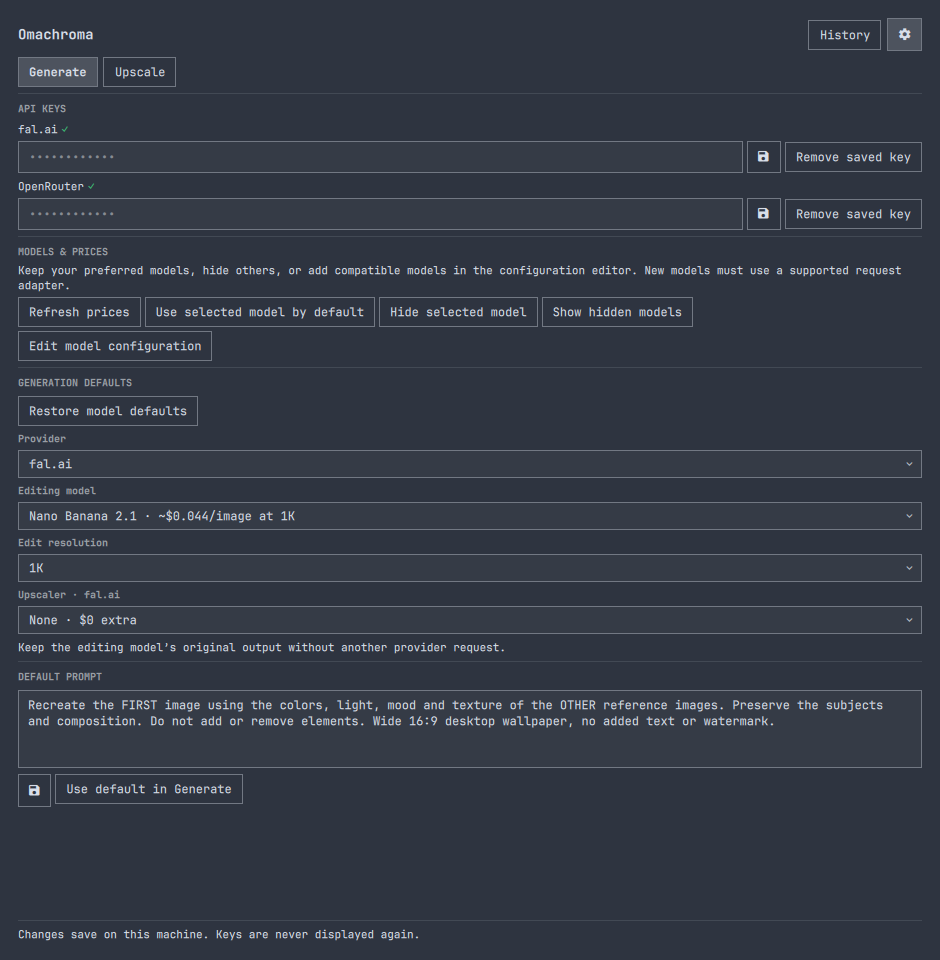
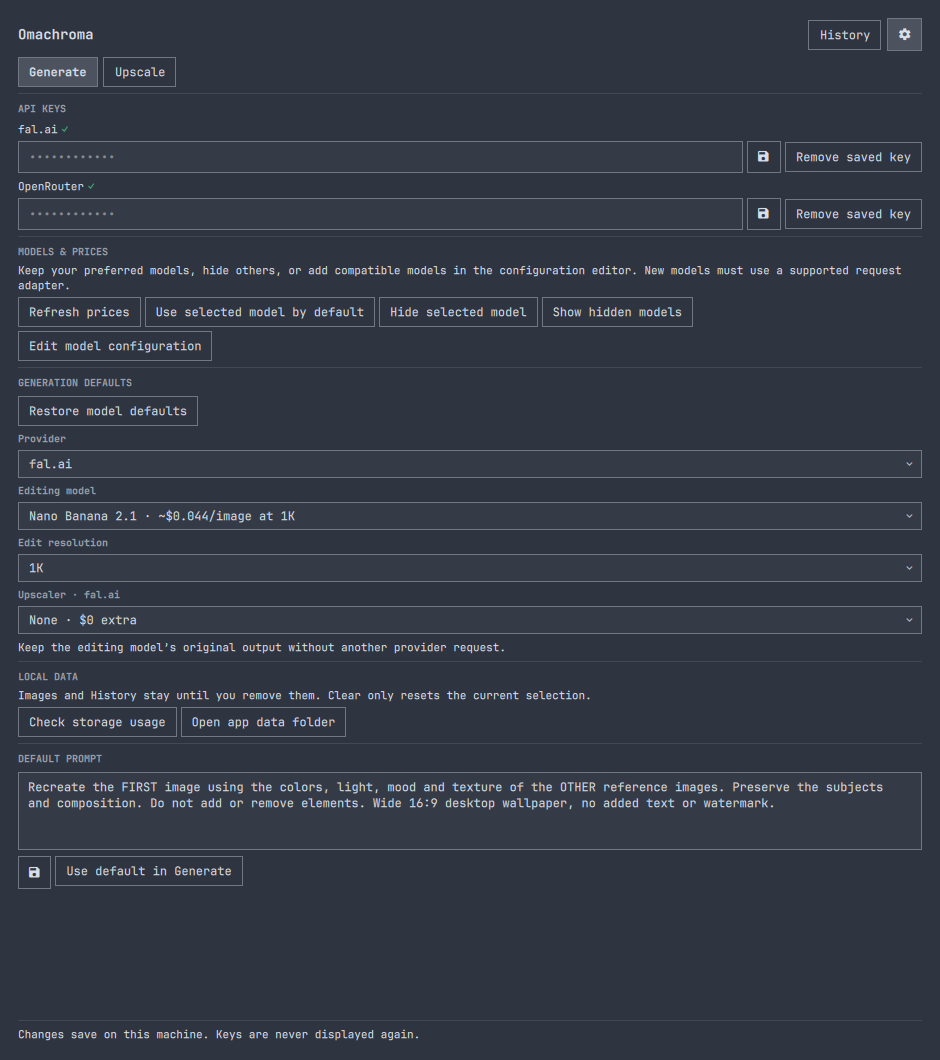
Polish pricing refresh, tiny rates and local data management

diff --git a/qml/controllers/BackendState.qml b/qml/controllers/BackendState.qml
@@ -19,6 +19,8 @@ Item {
   property var environmentKeys: ({})
   property string catalogWarning: ""
   property string dataPath: ""
+  property var storageInfo: null
+  readonly property bool dataBusy: dataProc.running
   property var keys: ({fal: false, openrouter: false})
   readonly property var effectiveConfig: Object.assign({}, config, {upscaler: keys.fal ? config.upscaler : "none"})
   property var lastJob: null
@@ -43,7 +45,7 @@ Item {
       modelConfig = data.modelConfig; providerDefaults = data.providerDefaults
       environmentKeys = data.environmentKeys; catalogWarning = data.catalogWarning || ""
       dataPath = data.dataPath || ""
-      if (data.refresh) message = data.refresh.updated + " metadata entries refreshed." + (data.refresh.warnings.length ? " " + data.refresh.warnings.join(" ") : "")
+      if (data.refresh) message = data.refresh.updated + " rates refreshed; " + (data.refresh.availabilityUpdated || 0) + " availability entries checked." + (data.refresh.warnings.length ? " " + data.refresh.warnings.join(" ") : "")
     } catch (e) { error = "Could not read Settings. Check the local config file." }
   }
   function load() {
@@ -97,6 +99,26 @@ Item {
     saveProc.command = ["python3", backend, "--refresh-prices"]
     message = "Refreshing provider metadata. Images and prompts are not sent."
     saveProc.running = true
+  }
+  function dataAction(open) {
+    if (dataProc.running || busy) return
+    dataProc.opening = open
+    dataProc.command = ["python3", backend, open ? "--open-data-folder" : "--storage-info"]
+    dataProc.running = true
+  }
+  Process {
+    id: dataProc
+    property bool opening: false
+    stdout: StdioCollector {
+      waitForEnd: true
+      onStreamFinished: {
+        if (!dataProc.opening && text.trim()) {
+          try { root.storageInfo = JSON.parse(text) }
+          catch (e) { root.error = "Could not read storage usage." }
+        }
+      }
+    }
+    onExited: { if (exitCode !== 0) root.error = "Could not inspect or open the app data folder." }
   }
   Process {
     id: loadProc

diff --git a/qml/views/DataSettings.qml b/qml/views/DataSettings.qml
@@ -1,0 +1,34 @@
+import QtQuick
+import qs.Commons
+import qs.Ui
+
+Column {
+  id: root
+  required property var store
+  spacing: Style.spacing.sm
+  PanelSectionHeader { text: "LOCAL DATA" }
+  Text {
+    width: parent.width; wrapMode: Text.WordWrap; textFormat: Text.PlainText
+    text: "Images and History stay until you remove them. Clear only resets the current selection."
+    color: Color.muted; font.family: Style.font.family; font.pixelSize: Style.font.bodySmall
+  }
+  Flow {
+    width: parent.width; spacing: Style.spacing.sm
+    Button {
+      text: "Check storage usage"; focusable: true; bordered: true
+      enabled: !root.store.busy && !root.store.dataBusy
+      onClicked: root.store.dataAction(false)
+    }
+    Button {
+      text: "Open app data folder"; focusable: true; bordered: true
+      enabled: !root.store.busy && !root.store.dataBusy
+      onClicked: root.store.dataAction(true)
+    }
+  }
+  Text {
+    visible: !!root.store.storageInfo
+    width: parent.width; wrapMode: Text.WordWrap; textFormat: Text.PlainText
+    text: root.store.storageInfo ? (root.store.storageInfo.complete ? "" : "At least ") + (root.store.storageInfo.bytes / 1048576).toFixed(1) + " MiB across " + root.store.storageInfo.files + " files. Removing files through the file manager does not remove copies already saved to themes." : ""
+    color: Color.muted; font.family: Style.font.family; font.pixelSize: Style.font.bodySmall
+  }
+}

diff --git a/qml/logic/Omachroma.js b/qml/logic/Omachroma.js
@@ -1,6 +1,8 @@
 // Provider rates are dated snapshots. Output size, quality and input images can change the bill.
 function dollars(value) {
-  return "$" + Number(value).toFixed(4).replace(/0+$/, "").replace(/\.$/, "")
+  var amount = Number(value)
+  if (amount > 0 && amount < 0.0001) return "$" + amount.toPrecision(4)
+  return "$" + amount.toFixed(4).replace(/0+$/, "").replace(/\.$/, "")
 }
 
 function reportedCost(report) {
@@ -19,9 +21,10 @@ function reportedCost(report) {
 function providerRate(rates) {
   var groups = {}
   ;(rates || []).forEach(function(rate) {
-    var name = rate.billable + "/" + rate.unit + (rate.conditional ? " (conditional)" : "")
+    var tokens = rate.unit === "token" || rate.unit === "tokens"
+    var name = rate.billable + "/" + (tokens ? "M tokens" : rate.unit) + (rate.conditional ? " (conditional)" : "")
     if (!groups[name]) groups[name] = []
-    groups[name].push(Number(rate.usd))
+    groups[name].push(Number(rate.usd) * (tokens ? 1000000 : 1))
   })
   return Object.keys(groups).map(function(name) {
     var values = groups[name], low = Math.min.apply(null, values), high = Math.max.apply(null, values)

diff --git a/qml/views/SettingsView.qml b/qml/views/SettingsView.qml
@@ -117,6 +117,8 @@ Column {
     onChanged: { root.store.update("creativity", parseInt(value)) }
   }
   PanelSeparator { width: parent.width }
+  DataSettings { width: parent.width; store: root.store }
+  PanelSeparator { width: parent.width }
   PanelSectionHeader { text: "DEFAULT PROMPT" }
   PromptInput {
     id: prompt

diff --git a/backend/catalog.py b/backend/catalog.py
@@ -135,16 +135,19 @@ def refresh():
     warnings = []
     stamp = datetime.now(timezone.utc).isoformat(timespec='seconds')
     started = time.monotonic()
-    updated = 0
+    updated = availability_updated = 0
+    changed = False
     def fetch(url, key, provider):
         remaining = 75 - (time.monotonic() - started)
         if remaining <= 0:
             raise ValueError('Metadata refresh reached its 75-second deadline.')
         return metadata_request(url, key, provider, min(8, remaining))
-    def remember(group, ident, data):
-        nonlocal updated
+    def remember(group, ident, data, rate=True):
+        nonlocal updated, availability_updated, changed
         result.setdefault(group, {})[ident] = {'checkedAt': stamp, **data}
-        updated += 1
+        changed = True
+        updated += int(rate)
+        availability_updated += int(group == 'openrouter')
     if keys.get('FAL_KEY'):
         try:
             editing = models('fal', include_hidden=True)
@@ -192,7 +195,11 @@ def refresh():
                     if not complete:
                         continue
                     old = previous.get('openrouter', {}).get(ident, {})
-                    remember('openrouter', ident, {**old, 'available': False, 'availabilityChecked': stamp})
+                    remember('openrouter', ident, {**old, 'available': False, 'availabilityChecked': stamp}, rate=False)
+                    continue
+                if ident in manual['openrouter']:
+                    old = previous.get('openrouter', {}).get(ident, {})
+                    remember('openrouter', ident, {**old, 'available': True, 'availabilityChecked': stamp}, rate=False)
                     continue
                 try:
                     info = fetch('https://openrouter.ai/api/v1/images/models/' + quote(ident, safe='/') + '/endpoints', keys['OPENROUTER_API_KEY'], 'openrouter')
@@ -209,6 +216,6 @@ def refresh():
             warnings.append('OpenRouter catalog could not refresh. Previous metadata remains active.')
     else:
         warnings.append('OpenRouter key missing; its rates were not refreshed.')
-    if updated:
+    if changed:
         storage.atomic_write(storage.DATA / 'catalog-cache.json', json.dumps(result, indent=2) + '\n')
-    return {'updated': updated, 'warnings': warnings}
+    return {'updated': updated, 'availabilityUpdated': availability_updated, 'warnings': warnings}

diff --git a/tests/test_catalog.py b/tests/test_catalog.py
@@ -9,7 +9,7 @@ from unittest.mock import patch
 
 PLUGIN = Path(__file__).resolve().parents[1]
 sys.path.insert(0, str(PLUGIN))
-from backend import catalog, model_config, providers, storage, upscalers
+from backend import diagnostics, catalog, model_config, providers, storage, upscalers
 
 
 class CatalogTests(unittest.TestCase):
@@ -164,6 +164,29 @@ class CatalogTests(unittest.TestCase):
     def test_huge_numeric_price_rejected(self):
         value = self.custom(); value['models']['fal'][0]['price']['image'] = 10 ** 400
         with self.assertRaises(ValueError): catalog.save(value)
+
+    def test_openrouter_manual_prices_refresh_availability_only(self):
+        value = copy.deepcopy(model_config.EMPTY)
+        ident = catalog.MODELS['openrouter'][0]['value']
+        value['models']['openrouter'] = [{'value':ident,'label':'Manual model','adapter':'openrouter','resolutions':['1K'],'price':{'image':.99}}]
+        catalog.save(value)
+        with patch.object(storage, 'credentials', return_value={'OPENROUTER_API_KEY':'fixture'}), patch.object(catalog, 'metadata_request', return_value={'data':[{'id':ident}]}) as request:
+            result = catalog.refresh()
+        self.assertEqual(request.call_count,1)
+        self.assertEqual(result['updated'],0)
+        self.assertEqual(result['availabilityUpdated'],len(catalog.MODELS['openrouter']))
+        self.assertNotIn('rates',catalog.cache()[0]['openrouter'][ident])
+        self.assertEqual(storage.model_spec('openrouter',ident)['price'],{'image':.99})
+
+    def test_storage_usage_does_not_follow_external_symlinks(self):
+        (self.data / 'one').write_bytes(b'abc')
+        with tempfile.TemporaryDirectory() as external:
+            target = Path(external); (target / 'secret').write_bytes(b'x' * 1000)
+            (self.data / 'linked-folder').symlink_to(target, target_is_directory=True)
+            (self.data / 'linked-file').symlink_to(target / 'secret')
+            info = diagnostics.storage_usage()
+        self.assertEqual(info['bytes'], 3)
+        self.assertTrue(info['complete'])
 
     def test_launcher_cleanup_protects_user_entry(self):
         with patch.dict('os.environ', {'XDG_DATA_HOME': str(self.data)}):

diff --git a/backend/diagnostics.py b/backend/diagnostics.py
@@ -2,6 +2,7 @@
 import shutil
 import subprocess
 import sys
+from pathlib import Path
 
 
 def check():
@@ -18,3 +19,47 @@ def check():
     return {'pythonSupported': sys.version_info >= (3, 11), 'commands': commands,
             'systemPyGObject': gio, 'fileChooserPortal': portal,
             'ready': all(commands.values()) and gio and portal}
+
+
+def storage_usage():
+    """Bounded metadata-only scan. Never read contents or follow directory links."""
+    import os
+    import stat
+    from . import storage
+    total = count = 0
+    complete = True
+    if storage.DATA.is_symlink():
+        raise ValueError('Data directory is a symlink; storage scan skipped.')
+    stack = [storage.DATA]
+    visited = 0
+    while stack:
+        directory = stack.pop()
+        if directory.is_symlink():
+            continue
+        try:
+            with os.scandir(directory) as entries:
+                for entry in entries:
+                    if visited >= 5000:
+                        return {'bytes': total, 'files': count, 'complete': False}
+                    visited += 1
+                    info = entry.stat(follow_symlinks=False)
+                    if stat.S_ISDIR(info.st_mode):
+                        stack.append(Path(entry.path))
+                    elif stat.S_ISREG(info.st_mode):
+                        total += info.st_size
+                        count += 1
+        except FileNotFoundError:
+            continue
+        except OSError:
+            complete = False
+    return {'bytes': total, 'files': count, 'complete': complete}
+
+
+def open_data_folder():
+    from . import storage
+    if storage.DATA.is_symlink():
+        raise ValueError('Data directory is a symlink; left unchanged.')
+    storage.DATA.mkdir(parents=True, exist_ok=True)
+    result = subprocess.run(['xdg-open', str(storage.DATA)], capture_output=True, timeout=10)
+    if result.returncode:
+        raise ValueError('The app data folder could not open.')

diff --git a/generate-theme-wallpaper.py b/generate-theme-wallpaper.py
@@ -27,6 +27,8 @@ def main():
     ap.add_argument('--save-models', action='store_true')
     ap.add_argument('--refresh-prices', action='store_true')
     ap.add_argument('--doctor', action='store_true')
+    ap.add_argument('--storage-info', action='store_true')
+    ap.add_argument('--open-data-folder', action='store_true')
     ap.add_argument('--init-env', action='store_true')
     ap.add_argument('--list-themes', action='store_true')
     ap.add_argument('--list-backgrounds')
@@ -54,7 +56,11 @@ def main():
     ap.add_argument('--tag')  # retained for older callers; jobs always use unique IDs
     ap.add_argument('--seed', type=int)
     args = ap.parse_args()
-    if args.doctor:
+    if args.storage_info:
+        print(json.dumps(diagnostics.storage_usage()))
+    elif args.open_data_folder:
+        diagnostics.open_data_folder()
+    elif args.doctor:
         print(json.dumps(diagnostics.check()))
     elif args.history:
         print(json.dumps({'records': history.listing()}))

diff --git a/README.md b/README.md
@@ -152,7 +152,7 @@ Settings displays the active data directory. Files include:
 - `history/` and `current-job.json`: bounded metadata and preview selection.
   History includes source paths and outcomes, but no keys or prompts.
 
-Result folders accumulate until you remove them. **Clear** is not disk cleanup.
+Settings includes a bounded storage-usage check and an **Open app data folder** action for deliberate cleanup. The scan reads file sizes, not file contents. Result folders accumulate until you remove them. **Clear** is not disk cleanup.
 You can remove unneeded generated result folders using your file manager; missing
 results are identified in History. Back up images you want before doing so.
 Keys can be removed separately in Settings. An environment key stays active

diff --git a/docs/pricing.md b/docs/pricing.md
@@ -2,7 +2,7 @@
 
 Three sources remain distinct: bundled dated rates, cached provider metadata,
 and explicit user overrides. UI check dates belong to the displayed source.
-Refreshing never rewrites a manual rate.
+Refreshing never rewrites a manual rate. OpenRouter availability is still checked for manually priced models, but their endpoint rates are not fetched. The refresh result counts rates and availability separately.
 
 fal refresh uses the authenticated [pricing endpoint](https://fal.ai/docs/platform-apis/v1/models/pricing)
 for the configured editing/upscale endpoint IDs. It records the returned billing
